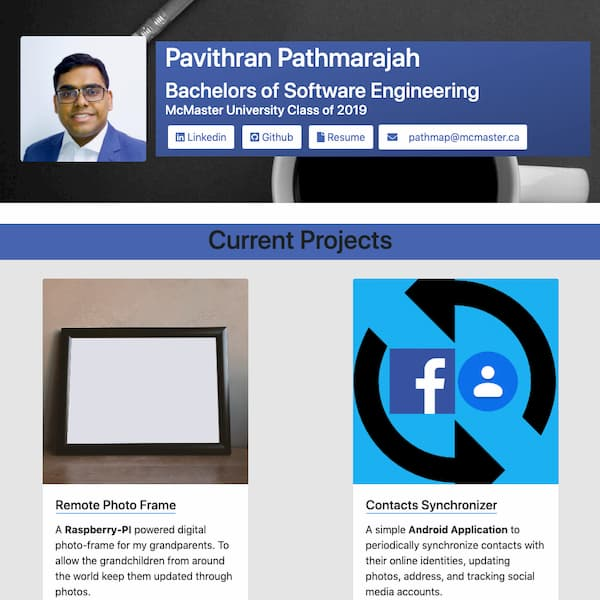
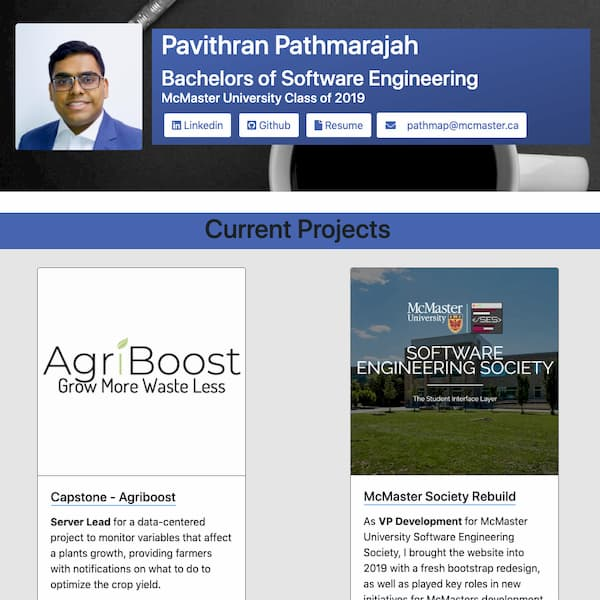
Added some context for projects, and updated website 2019 photo

diff --git a/index.html b/index.html
@@ -61,7 +61,6 @@
                     <div class="mobileHide card-footer text-center p-2">
                         <btn class="btn btn-primary w-100" target="remotePhotoFrame" onclick="handleClickShow(this)">Read More</btn>
                     </div>
-
                 </div>
             </div>
             <div class="col-md-6 p-1 d-flex justify-content-center">
@@ -76,10 +75,6 @@
                     </div>
                 </div>
             </div>
-            <!--<div class="col-lg-12 card-deck align-items-center justify-content-center">-->
-
-                <!---->
-            <!--</div>-->
         </div>
         <div id="remotePhotoFrame" class="mobileHide row collapse mt-2 pt-2 pb-2">
             <div class="col-lg-12">
@@ -199,7 +194,7 @@
                     <img class="card-img-top" src="assets/past/agriboost.jpg" alt="Card image cap">
                     <div class="card-body">
                         <h5 class="card-title">Capstone - Agriboost</h5>
-                        <p class="card-text">A <b>Raspberry-PI</b> powered digital photo-frame for my grandparents. To allow the grandchildren from around the world keep them updated through photos.</p>
+                        <p class="card-text"><b>Server Lead</b> for a data-centered project to monitor variables that affect a plants growth, providing farmers with notifications on what to do to optimize the crop yield. </p>
                     </div>
                     <div class="mobileHide card-footer text-center p-2">
                         <btn class="btn btn-primary w-100" target="contactSync" onclick="handleClickShow(this)">Read More</btn>
@@ -211,7 +206,7 @@
                     <img class="card-img-top" src="assets/past/website2k19.jpg" alt="Card image cap">
                     <div class="card-body">
                         <h5 class="card-title">Website 2019</h5>
-                        <p class="card-text">A simple <b>Android Application</b> to periodically synchronize contacts with their online identities, updating photos, address, and tracking social media accounts. </p>
+                        <p class="card-text">Website Rebuild for 2019, using <b>Bootstrap 4, HTML, Javascript and CSS</b> to create a project focused website, previous versions were resume focused and projects second.</p>
                     </div>
                     <div class="mobileHide card-footer text-center p-2">
                         <btn class="btn btn-primary w-100" target="contactSync" onclick="handleClickShow(this)">Read More</btn>
@@ -223,7 +218,7 @@
                     <img class="card-img-top" src="assets/past/devShare.jpg" alt="Card image cap">
                     <div class="card-body">
                         <h5 class="card-title">McMaster DevShare</h5>
-                        <p class="card-text">A <b>Raspberry-PI</b> powered digital photo-frame for my grandparents. To allow the grandchildren from around the world keep them updated through photos.</p>
+                        <p class="card-text">An initiate to help fill the knowledge gap amongst the developers at McMaster University to make a more inclusive and knowledgeable student development base.</p>
                     </div>
                     <div class="mobileHide card-footer text-center p-2">
                         <btn class="btn btn-primary w-100" target="contactSync" onclick="handleClickShow(this)">Read More</btn>
@@ -241,7 +236,7 @@
                     <img class="card-img-top" src="assets/past/ses.jpg" alt="Card image cap">
                     <div class="card-body">
                         <h5 class="card-title">McMaster Society Rebuild</h5>
-                        <p class="card-text">A <b>Raspberry-PI</b> powered digital photo-frame for my grandparents. To allow the grandchildren from around the world keep them updated through photos.</p>
+                        <p class="card-text">As <b>VP Development</b> for McMaster University Software Engineering Society, I brought the website into 2019 with a fresh bootstrap redesign, as well as played key roles in new initiatives for McMasters development community.</p>
                     </div>
                     <div class="mobileHide card-footer text-center p-2">
                         <btn class="btn btn-primary w-100" target="contactSync" onclick="handleClickShow(this)">Read More</btn>
